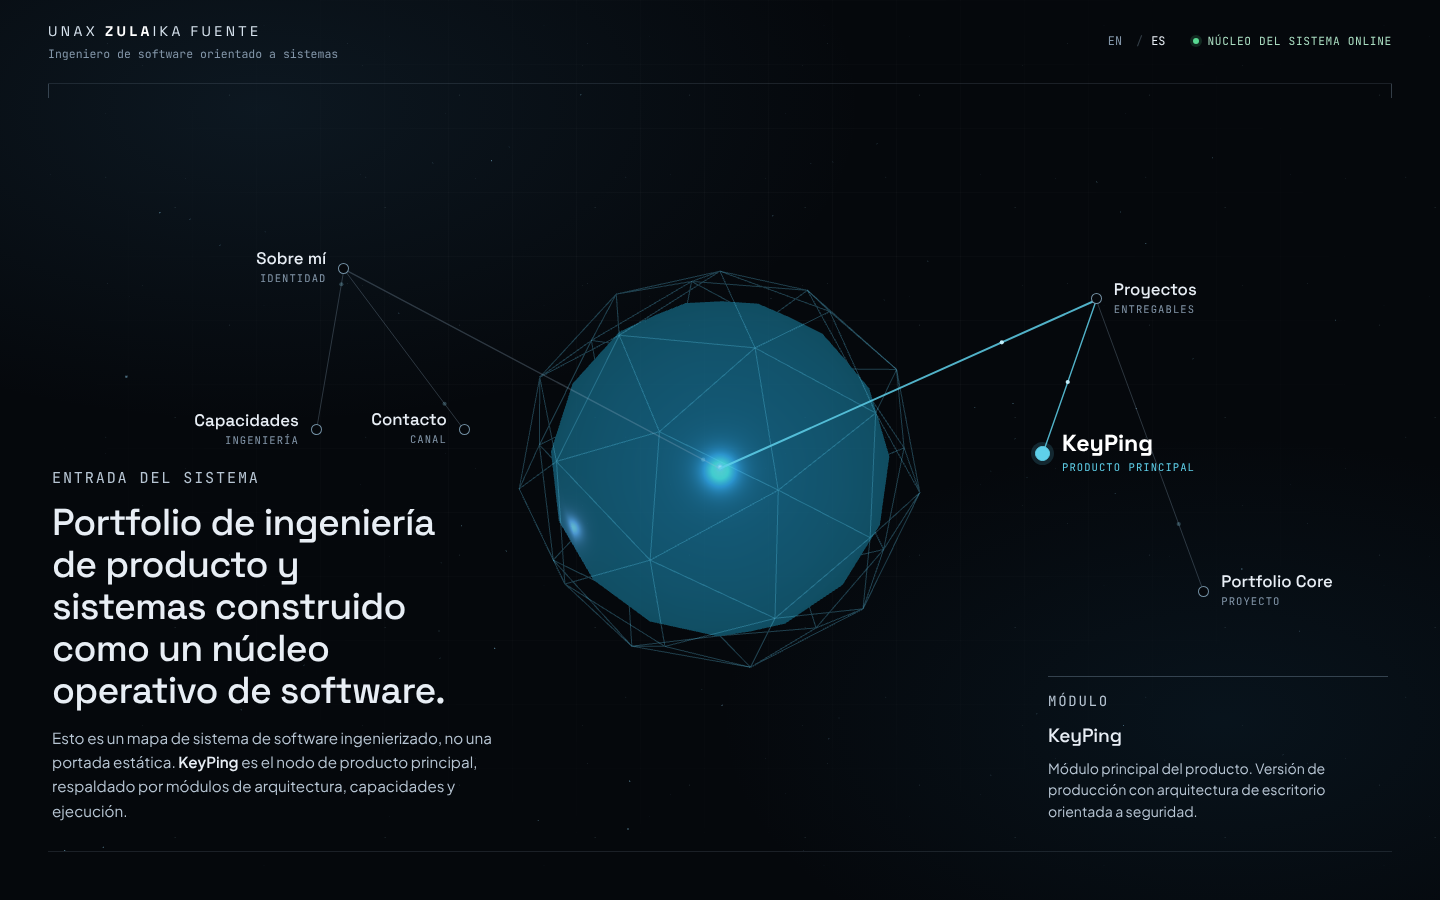
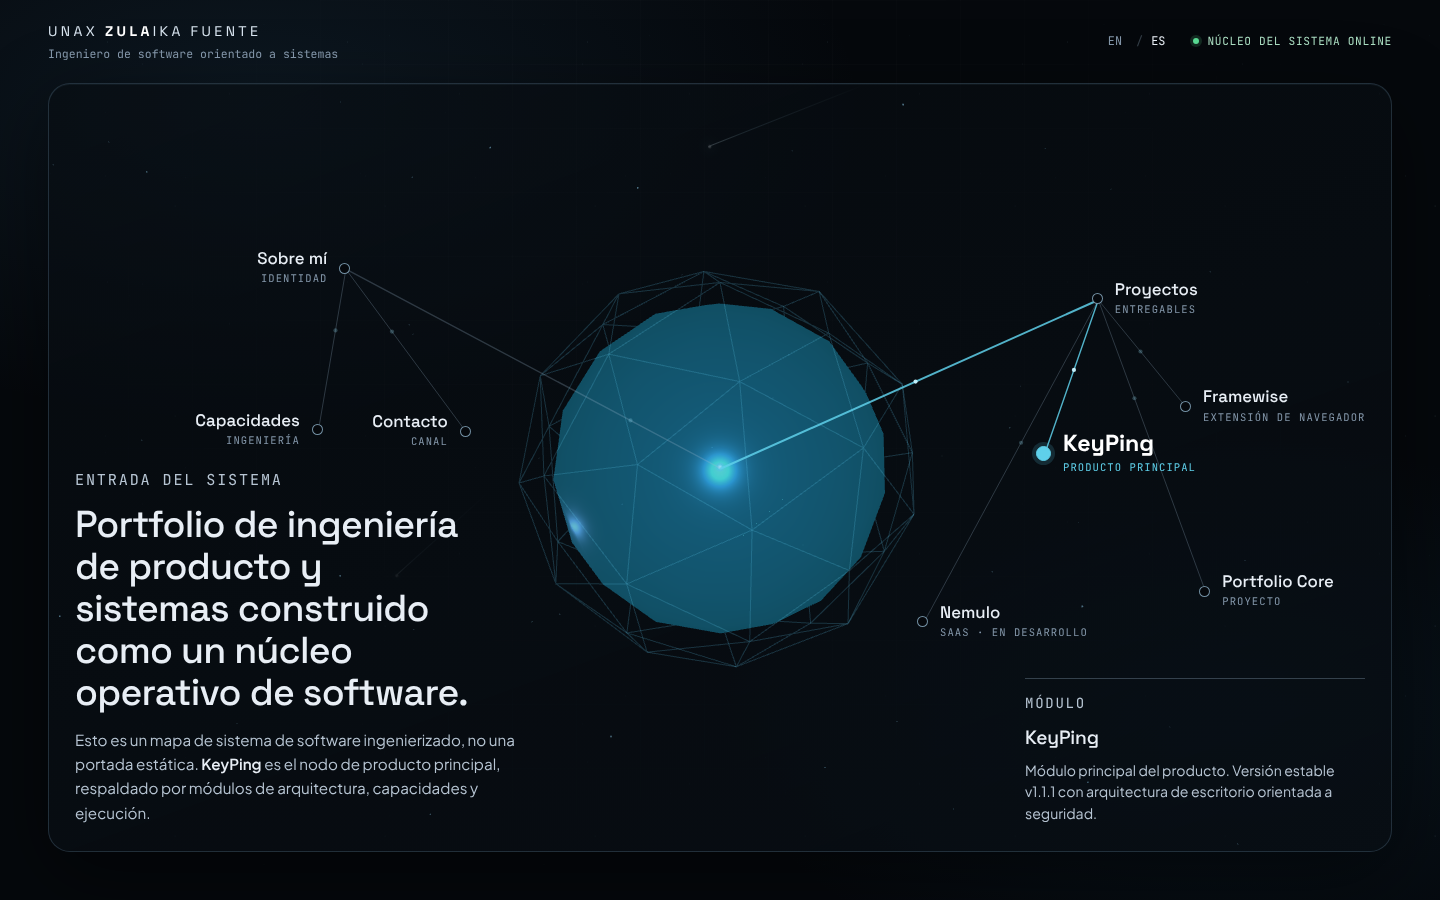
content(galeria): galería, Core y pruebas con los tres proyectos
Texto de la galería de proyectos y del panel del Core actualizado; nueva captura del Core para Portfolio Core; pruebas de esquema y disposición con los ocho módulos.

Claude-Session: https://claude.ai/code/session_01Agacmum1KXDRzNsBNdffTw

diff --git a/tests/schema.test.ts b/tests/schema.test.ts
@@ -6,8 +6,8 @@ const modules = readModules();
 const byId = (id: string) => clone(modules.find((m) => m.id === id)!);
 
 describe('contenido actual', () => {
-  it('existen los seis módulos del portfolio', () => {
-    expect(modules.map((m) => m.id).sort()).toEqual(['about', 'capabilities', 'contact', 'keyping', 'portfolio-core', 'projects']);
+  it('existen los ocho módulos del portfolio', () => {
+    expect(modules.map((m) => m.id).sort()).toEqual(['about', 'capabilities', 'contact', 'framewise', 'keyping', 'nemulo', 'portfolio-core', 'projects']);
   });
 
   it.each(modules.map((m) => [m.id, m.data]))('"%s" cumple el esquema', (_id, data) => {
@@ -29,8 +29,8 @@ describe('contenido actual', () => {
     expect(byId('keyping').data.project.layout).toBe('flagship');
   });
 
-  it('las rutas son las del sitio anterior', () => {
-    expect(modules.map((m) => m.data.path).sort()).toEqual(['about', 'capabilities', 'contact', 'projects', 'projects/keyping', 'projects/portfolio-core']);
+  it('las rutas son las del sitio anterior más los proyectos nuevos', () => {
+    expect(modules.map((m) => m.data.path).sort()).toEqual(['about', 'capabilities', 'contact', 'projects', 'projects/framewise', 'projects/keyping', 'projects/nemulo', 'projects/portfolio-core']);
   });
 
   it('no quedan enlaces al repositorio antiguo ni a zulaa9.github.io como web', () => {

diff --git a/tests/layout.test.ts b/tests/layout.test.ts
@@ -6,7 +6,7 @@ import { readModules } from './helpers';
 describe('disposición de nodos del Core', () => {
   const modules = readModules().filter((m) => m.data.visible);
 
-  it('con los módulos actuales conserva exactamente las posiciones anteriores', () => {
+  it('con los módulos actuales respeta sus posiciones manuales', () => {
     const pos = layoutNodes(modules.map((m) => ({ id: m.id, position: m.data.node.position, parent: m.data.parent })));
     expect(Object.fromEntries(pos)).toEqual({
       about: { x: 0.22, y: 0.24 },
@@ -14,6 +14,8 @@ describe('disposición de nodos del Core', () => {
       contact: { x: 0.31, y: 0.64 },
       projects: { x: 0.78, y: 0.28 },
       keyping: { x: 0.74, y: 0.48 },
+      framewise: { x: 0.88, y: 0.42 },
+      nemulo: { x: 0.65, y: 0.7 },
       'portfolio-core': { x: 0.86, y: 0.66 },
     });
   });
